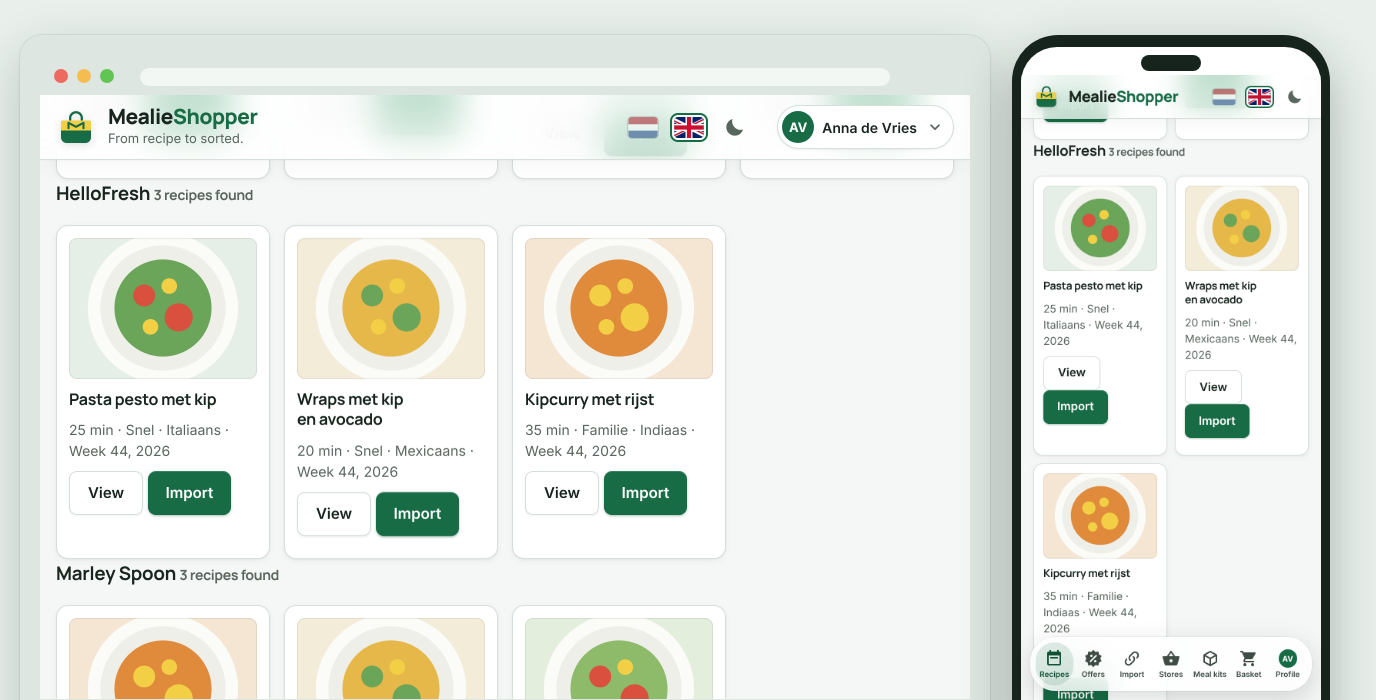
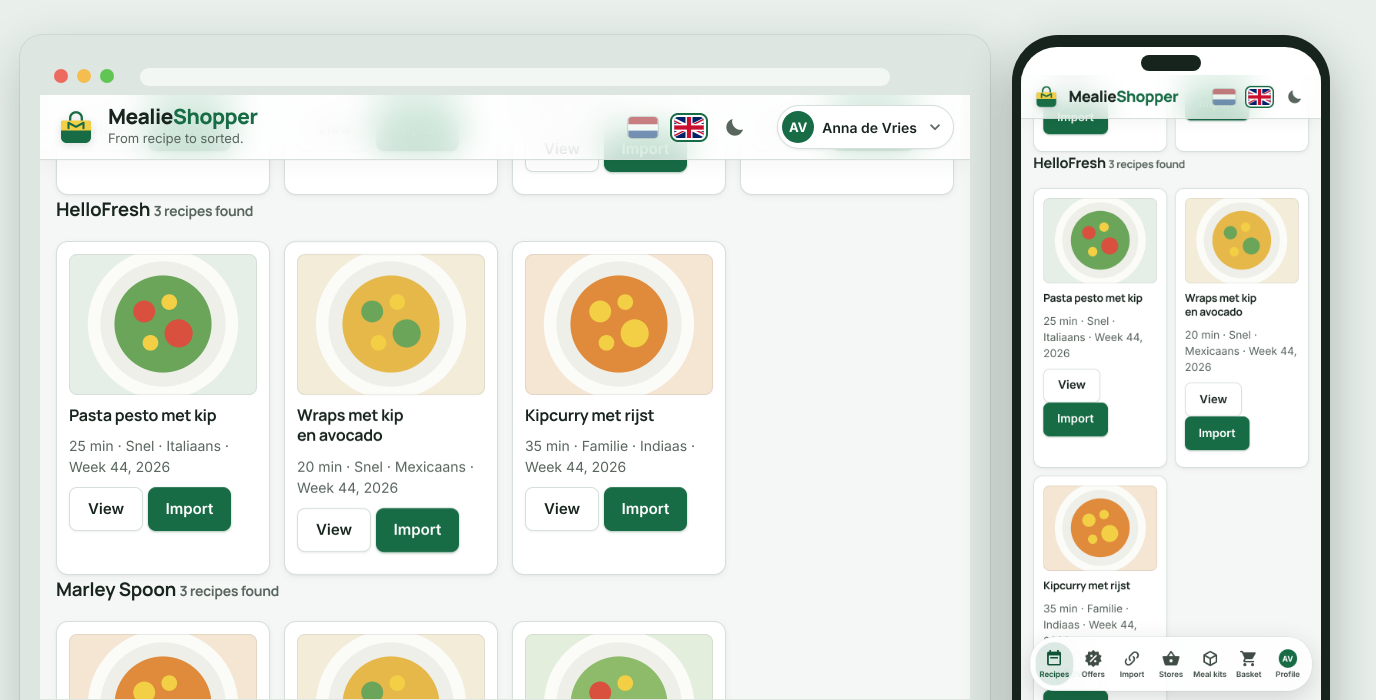
Screenshots in de nieuwe stijl: instellingen, audit, over, updates, beta en donker
Claude-Session: https://claude.ai/code/session_01KSdu57cc1dHogKrFKYKAWg

diff --git a/scripts/screenshots/scenarios/10-week-and-basket.js b/scripts/screenshots/scenarios/10-week-and-basket.js
@@ -334,7 +334,7 @@ module.exports = [
     routes: searchRoutes,
     run: async (page) => {
       await search(page);
-      await scrollTo(page, "#search .subtabs", 80);
+      await scrollTo(page, "#recipes > .subtabs", 80);
     },
   },
   {
